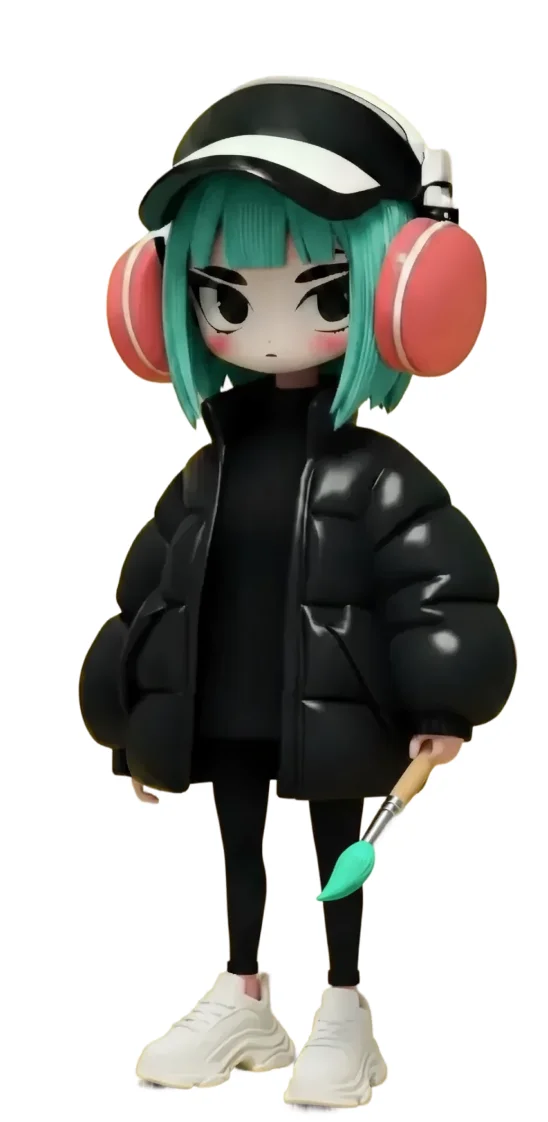
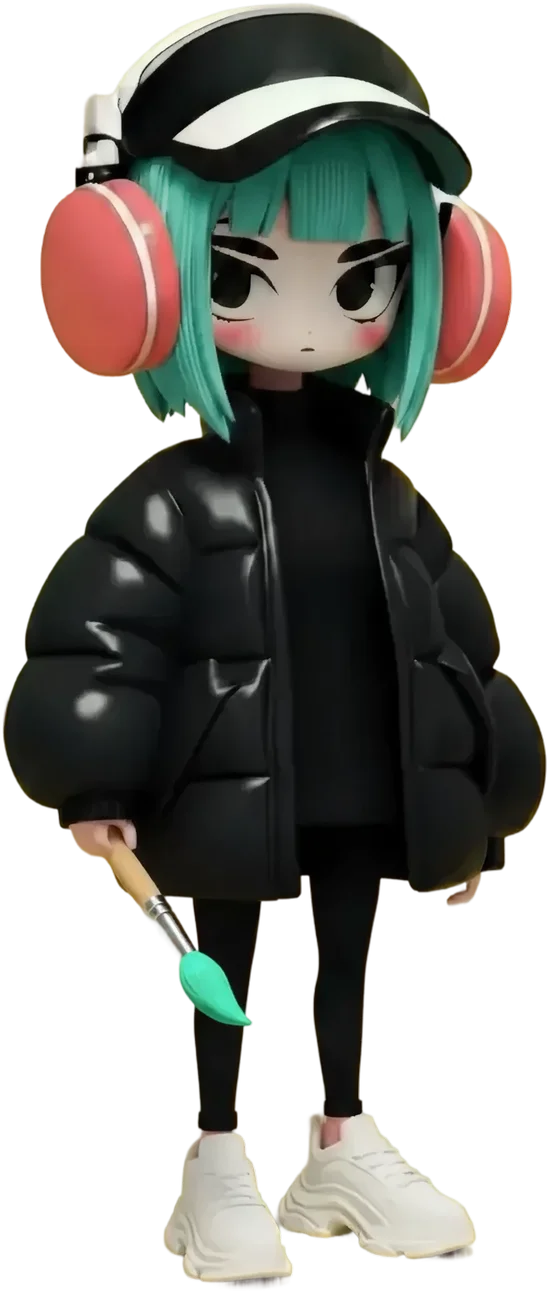
Open the TAYA case on the site
The sandbox page becomes the third case: it joins the build and the
deploy check, the home card links to it instead of saying Soon, and it
gets the meta and a link preview the other cases have. Taya herself is
now a true cut-out; the export had baked her onto white, which only
showed once she sat on anything but the page.

diff --git a/taya.html b/taya.html
@@ -5,10 +5,21 @@
   <link rel="icon" type="image/svg+xml" sizes="any" href="/favicon.svg?v=1" />
   <meta charset="UTF-8" />
   <meta name="viewport" content="width=device-width, initial-scale=1.0, viewport-fit=cover" />
-  <!-- Песочница: страницы нет во входах vite.config.js, поэтому она живёт
-       только на дев-сервере и в сборку для прода не попадает. -->
-  <meta name="robots" content="noindex" />
-  <title>TAYA AI — песочница</title>
+  <meta name="description" content="Сценарий прошли 11 из 11 после итерации сохранения. Мобильный AI-компаньон для художников, соло-дизайнер." />
+  <!-- Превью ссылки в Telegram, HH, почте и соцсетях. Картинки 1200×630 — public/og. -->
+  <meta property="og:type" content="website" />
+  <meta property="og:site_name" content="Даниил Троянов" />
+  <meta property="og:locale" content="ru_RU" />
+  <meta property="og:url" content="https://danyatroyanov.com/taya.html" />
+  <meta property="og:title" content="TAYA AI — кейс Даниила Троянова" />
+  <meta property="og:description" content="Сценарий прошли 11 из 11 после итерации сохранения. Мобильный AI-компаньон для художников, соло-дизайнер." />
+  <meta property="og:image" content="https://danyatroyanov.com/og/taya-v1.jpg" />
+  <meta property="og:image:width" content="1200" />
+  <meta property="og:image:height" content="630" />
+  <meta property="og:image:alt" content="Кейс TAYA AI" />
+  <meta name="twitter:card" content="summary_large_image" />
+  <link rel="canonical" href="https://danyatroyanov.com/taya.html" />
+  <title>TAYA AI</title>
   <link rel="stylesheet" href="assets/reveal.css?v=position-safe-2" />
   <link rel="stylesheet" href="styles.css?v=case-enter-1" />
   <link rel="stylesheet" href="ai-producer.css?v=kit-outline-1" />
@@ -43,7 +54,7 @@
     </section>
 
     <figure class="taya-hero">
-      <img src="assets/cases/taya/taya-figure.webp" width="548" height="1122" alt="Тая — AI-компаньон: девушка в наушниках и пуховике, с кистью в руке" fetchpriority="high" />
+      <img src="assets/cases/taya/taya-figure.webp" width="548" height="1291" alt="Тая — AI-компаньон: девушка в наушниках и пуховике, с кистью в руке" fetchpriority="high" />
     </figure>
 
     <div class="ai-case-divider ai-case-divider--overview" aria-hidden="true"></div>

diff --git a/taya.css b/taya.css
@@ -1,14 +1,11 @@
-/* TAYA AI — песочница кейса. Опирается на стили AI Producer:
+/* TAYA AI. Кейс опирается на стили AI Producer:
    секции, кикеры, заметки и сноски берутся оттуда, здесь только своё. */
 
 /* Под заголовком — сама Тая в полный рост, по центру */
+/* Вырезка без полей: 238px дают ту же высоту 561, что в макете */
 .taya-hero {
-  width: 274px;
+  width: 238px;
   margin: 29px auto 0;
-}
-
-.taya-body .ai-case-divider--overview {
-  margin-top: 30px;
 }
 
 .taya-hero img {
@@ -16,6 +13,11 @@
   width: 100%;
   height: auto;
 }
+
+.taya-body .ai-case-divider--overview {
+  margin-top: 30px;
+}
+
 
 /* Персона */
 
@@ -243,7 +245,7 @@
 
 @media (max-width: 899px) {
   .taya-hero {
-    width: 220px;
+    width: 191px;
     margin-top: 24px;
   }
 

diff --git a/src/App.jsx b/src/App.jsx
@@ -377,7 +377,7 @@ function TayaProject() {
         <PhoneMockup src={homeAssets.taya} staticSrc={homeAssets.tayaPoster} rootMargin="800px 0px" label="Аниматик экрана TAYA AI" variant="taya" sound startAt={13} />
       </div>
       <div className="home-project-info">
-        <ProjectHeader disabled title="Taya AI" tags={["Concept", "Design & Research"]} />
+        <ProjectHeader href="/taya.html" title="Taya AI" tags={["Concept", "Design & Research"]} />
         <RhythmDot />
         <ProjectDescription>
           Мобильный ассистент

diff --git a/vite.config.js b/vite.config.js
@@ -15,6 +15,7 @@ export default defineConfig({
         home: fileURLToPath(new URL("./index.html", import.meta.url)),
         artifact: fileURLToPath(new URL("./artifact.html", import.meta.url)),
         aiProducer: fileURLToPath(new URL("./ai-producer.html", import.meta.url)),
+        taya: fileURLToPath(new URL("./taya.html", import.meta.url)),
       },
     },
   },

diff --git a/scripts/deploy_beget.py b/scripts/deploy_beget.py
@@ -115,10 +115,10 @@ def verify_dist() -> None:
     """Быстрая проверка сборки вместо полного npm test.
 
     npm test собирает сайт ещё раз в памяти и на iCloud иногда виснет. Здесь
-    проверяем то, что реально ломало прод: все три страницы собраны, а каждый
+    проверяем то, что реально ломало прод: все четыре страницы собраны, а каждый
     файл, на который ссылаются HTML и CSS, лежит в dist/.
     """
-    for page in ("index.html", "artifact.html", "ai-producer.html"):
+    for page in ("index.html", "artifact.html", "ai-producer.html", "taya.html"):
         if not (DIST / page).is_file():
             sys.exit(f"✗ В сборке нет страницы {page}")
     pattern = re.compile(
